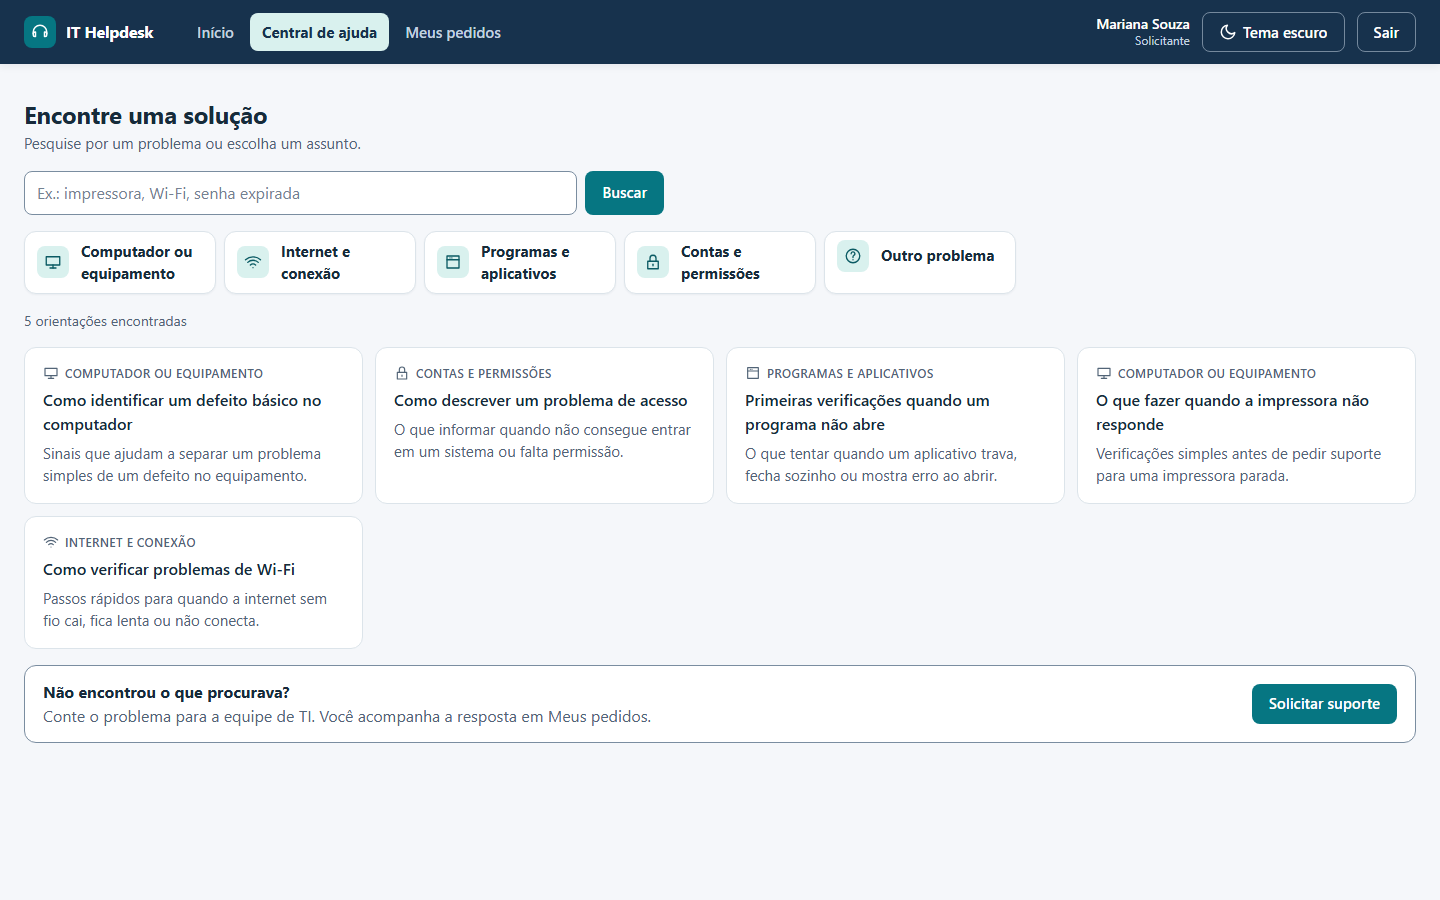
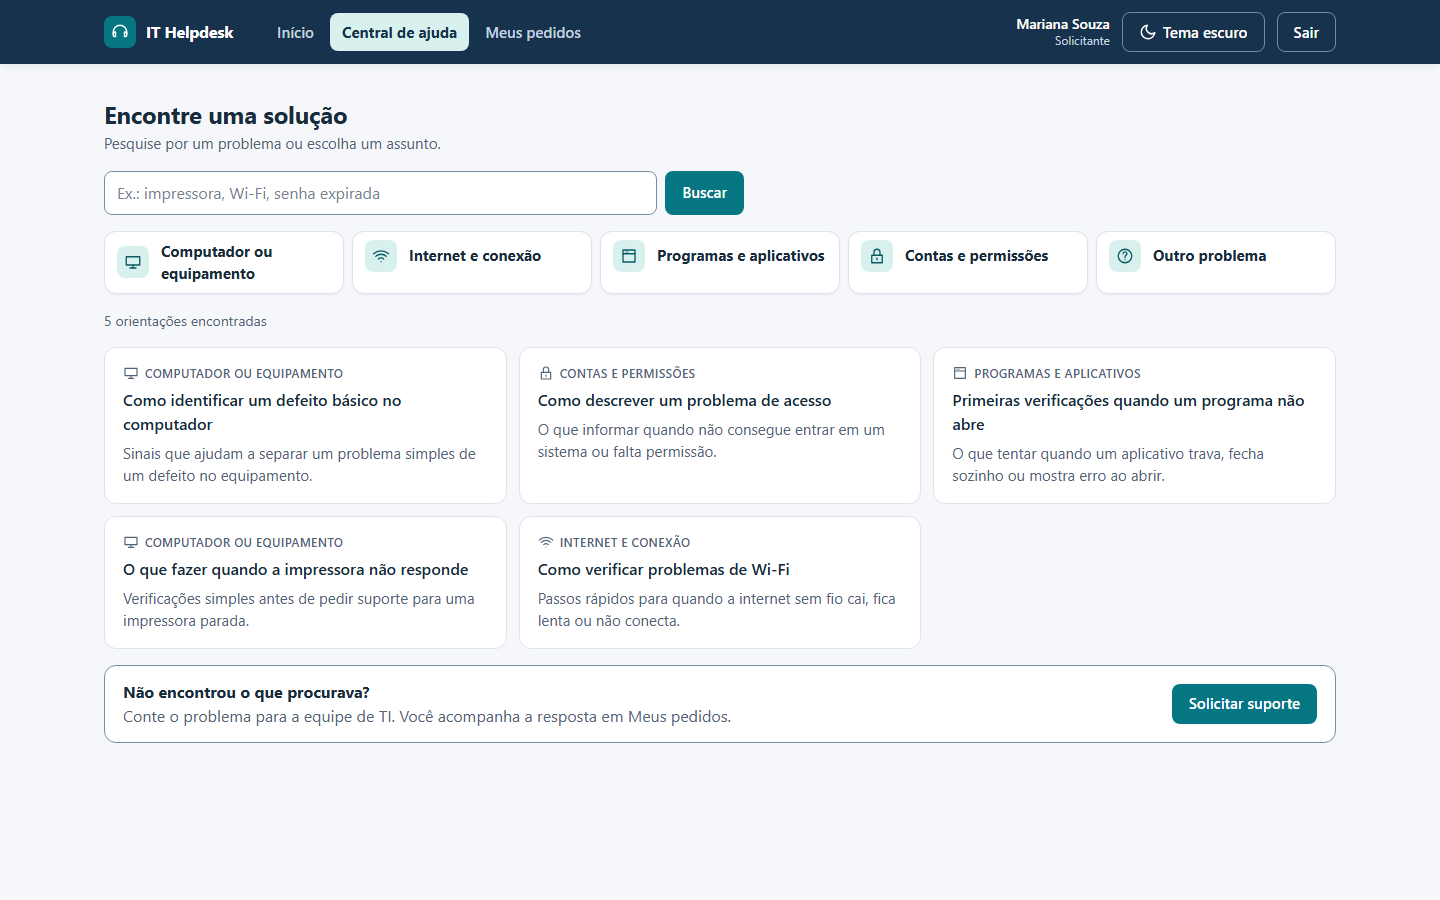
docs: document the layout containers and refresh the changed screens
Record the per-profile containers and the fixed-set grids among the
code decisions, describe the two-column request form, list the new
layout checks of the E2E and add the verification log. Only the 10
captures whose screens changed were regenerated (requester home, form,
help center, article, resolution confirmation, and the manager's full
page on tablet and phone); the other 21 are unchanged, and the capture
metadata keeps each entry's own date.

diff --git a/docs/05-demonstracao.md b/docs/05-demonstracao.md
@@ -140,11 +140,31 @@ No banco local avaliado, os cinco IDs são `6ac9715c1a2d1fec7dee10c3`, `6ac97180
 | Indicadores de estoque | `inventory-insights.test.ts` e `demo-inventory.test.ts`: só a gestão; abaixo do mínimo; unidades separadas de tipos; consumo operacional sem estornos; demonstração só quando escolhida; seed idempotente que recusa contas reais |
 | Troca de perfil | E2E: Solicitante → Sair → TI, TI → Sair → Gestor e Gestor → Sair → Solicitante caem na página inicial do próprio perfil; URL protegida volta após o login; recarregar mantém a página; destino que o perfil não abre cai na página inicial; sessão inválida de outra pessoa não decide o destino; nenhuma resposta 5xx em toda a execução |
 | Privacidade das respostas | `ticket-privacy.test.ts`: chaves exatas e ausência de dados restritos em todas as respostas do solicitante; a equipe mantém o contrato operacional |
-| Mobile | E2E verifica dashboard gerencial em desktop/390 px (inclusive com tabela de incidentes), Início do solicitante em 390 px, tema claro como padrão mesmo com o sistema em escuro, botão de tema (liga, sobrevive ao recarregamento, desliga), contraste de texto dos botões nos dois temas; não substitui auditoria completa de acessibilidade/responsividade |
+| Mobile e layout | E2E verifica dashboard gerencial em desktop/390 px (inclusive com tabela de incidentes), Início do solicitante em 390 px (busca com altura e ícone preservados) e em 1650 px (alinhado ao cabeçalho), formulário de suporte em duas colunas a 1650 px e em uma coluna, na ordem de leitura, a 768 px, as quatro ações da mesa de atendimento em 2 + 2 a 768 px, texto visível no botão **Solicitar suporte** com o mouse sobre ele, tema claro como padrão mesmo com o sistema em escuro, botão de tema (liga, sobrevive ao recarregamento, desliga), contraste de texto dos botões nos dois temas; não substitui auditoria completa de acessibilidade/responsividade |
 
 O E2E não automatiza toda a abertura e resolução pela UI. A integração cobre essas regras na API; o roteiro acima orienta a conferência visual manual.
 
 ## Registro da verificação documental
+
+Em **16/10/2026**, após a revisão de layout responsivo, as seguintes verificações foram aprovadas:
+- containers por perfil alinhados ao cabeçalho;
+- formulário de suporte em duas colunas;
+- grades de conjuntos fixos sem cartão isolado;
+- texto do botão principal visível com o mouse sobre ele;
+- busca da página Início com a altura preservada no celular;
+- **256 testes backend**, aprovados com `DEMO_MODE=true` e com `DEMO_MODE=false`;
+- **185 verificações E2E**, entre elas seis de geometria e estado;
+- typecheck, lint sem warnings, builds, `docs:check` e `git diff --check`.
+
+O E2E passou em 3 de 4 execuções. A que falhou parou ao recarregar o painel do gestor, depois que o sistema ocultou a página headless e o navegador cancelou as requisições à API: é o mesmo padrão registrado abaixo, e a causa não está comprovada. Uma varredura com o navegador nas resoluções 390 × 844, 768 × 1024, 1024 × 768, 1440 × 900, 1650 × 954 e 1920 × 1080 percorreu as páginas dos três perfis e não encontrou:
+- rolagem horizontal;
+- texto cortado;
+- campos estreitos;
+- conjuntos fixos de cartões com um cartão isolado na última linha.
+
+Das 31 capturas, foram refeitas apenas as 10 de telas que mudaram:
+- solicitante: as duas do formulário, as duas da página Início, o problema conhecido na página Início, a Central de ajuda, o artigo e a confirmação de resolução;
+- gestor: as duas da página completa no tablet e no celular, por causa da grade do estoque.
 
 Em **16/10/2026**, com o módulo de estoque e patrimônio: **256 testes backend**, aprovados com `DEMO_MODE=true` e com `DEMO_MODE=false`, e **179 verificações E2E**; typecheck, lint sem warnings, builds, `docs:check` (sete arquivos Markdown e 31 capturas) e `git diff --check` aprovados. Na última série, o E2E passou em 5 de 6 execuções seguidas; na que falhou, o sistema ocultou a janela do navegador headless 16 vezes (contra 3 ou 4 nas demais) e a página recarregada não iniciou a tempo, o mesmo efeito descrito em [solução de problemas](#solução-de-problemas). Duas instabilidades causadas pelo próprio teste foram corrigidas antes: verificações depois de recarregar que podiam ler a página antiga, e o Vite de teste recarregando ao descobrir dependências de uma página carregada sob demanda.
 

diff --git a/docs/03-fluxos-e-api.md b/docs/03-fluxos-e-api.md
@@ -8,7 +8,7 @@
 
 1. **Buscar uma solução.** A página **Início** pergunta **Como podemos ajudar?**: digite o problema na busca e clique em **Buscar orientações**, ou escolha um dos cinco cartões de assunto, que levam direto ao pedido guiado. A **Central de ajuda** mostra as orientações publicadas; abra uma e responda **Isso resolveu meu problema.** ou **Ainda preciso de ajuda.**
 2. **Ver se é um problema conhecido.** Em **Problemas conhecidos**, se o problema também está afetando você, clique em **Também estou com esse problema**. Nada mais é necessário: a TI vê que mais uma pessoa foi atingida. Se passar, clique em **Não estou mais com esse problema**.
-3. **Solicitar suporte.** Clique em **Solicitar suporte**, o único botão principal da página, (ou em **Ainda preciso de ajuda.**, que já traz o assunto e o artigo lido). Responda **Com o que você precisa de ajuda?**; aparecem os problemas conhecidos e as orientações daquele assunto, que não impedem o envio.
+3. **Solicitar suporte.** Clique em **Solicitar suporte**, o único botão principal da página, (ou em **Ainda preciso de ajuda.**, que já traz o assunto e o artigo lido). Responda **Com o que você precisa de ajuda?**; aparecem os problemas conhecidos e as orientações daquele assunto, que não impedem o envio. Em telas a partir de 960 px, eles ficam numa coluna ao lado do formulário, com **Como funciona o atendimento**; no celular e no tablet, aparecem antes dos campos, e a explicação vai para o fim da página.
 4. **Dizer onde é (opcional).** Em **Onde está o problema?**, o departamento e a sala começam pelo seu local de trabalho; troque se o problema for em outro lugar. Se você tiver equipamentos com patrimônio, pode indicar qual está com problema.
 5. **Responder às perguntas.** Em **Conte um pouco mais**, responda o que souber; todas são opcionais e podem ser limpas. Se trocar de assunto e voltar, as respostas continuam lá. Preencha **Assunto**, **O que aconteceu?** e **Prioridade sugerida** e clique em **Enviar solicitação**.
 6. **Acompanhar.** A página do pedido abre com a confirmação. Em Início, **Meus pedidos** resume quantos estão aguardando, em atendimento e resolvidos e lista os mais recentes. A situação aparece como **Aguardando atendimento**, **Em atendimento** ou **Resolvido**; enquanto ninguém iniciou o atendimento, **Editar chamado** corrige o texto. Todos os pedidos ficam em **Meus pedidos**.
@@ -211,9 +211,9 @@ A solicitante busca uma orientação, escolhe um assunto ou pede suporte; vê os
 
 Depois de **Também estou com esse problema**, o cartão confirma o acompanhamento e oferece **Não estou mais com esse problema**.
 
-![Formulário Solicitar suporte com o problema conhecido exibido antes dos campos](assets/screenshots/abertura-chamado-desktop.png)
+![Formulário Solicitar suporte: assunto e campos à esquerda, problema conhecido e Como funciona o atendimento à direita](assets/screenshots/abertura-chamado-desktop.png)
 
-O formulário mostra os problemas conhecidos antes dos campos, sem bloquear o envio. A captura é anterior ao envio.
+O formulário mostra os problemas conhecidos ao lado dos campos, sem bloquear o envio. A captura é anterior ao envio.
 
 ![Página Início da solicitante no celular](assets/screenshots/dashboard-solicitante-mobile.png)
 

diff --git a/docs/04-metricas-decisoes-e-limites.md b/docs/04-metricas-decisoes-e-limites.md
@@ -172,6 +172,7 @@ As justificativas abaixo explicam efeitos e tradeoffs da arquitetura existente, 
 - **Gráficos shadcn/ui adaptados com Recharts:** contêiner e tooltip usam tokens CSS existentes, sem introduzir Tailwind ou reconstruir o frontend. Gráfico gerencial é carregado sob demanda; barras ordenam categorias e pizza mantém a ordem semântica de prioridades.
 - **CSS próprio e Docker só no banco:** preserva a identidade visual e reduz dependências, com manutenção manual de componentes e processos separados.
 - **Paleta corporativa em tokens CSS:** fundo #F5F7FA, superfícies brancas, navegação azul-marinho #17324D, texto #172B3A, texto secundário #526477, bordas #DCE4EA e destaque suave #D9F1EE, definidos uma vez em `:root`, com variante escura equivalente em `:root[data-theme="dark"]`. O tema claro é o padrão, independentemente do sistema; o botão **Tema escuro** do cabeçalho (`aria-pressed`) liga o escuro e guarda a escolha no navegador, aplicada por um script em `index.html` antes da primeira pintura, sem piscar. O primário pedido, #087F8C, mede 4,42:1 como texto sobre o fundo, abaixo do AA; foi escurecido para #067682 (4,99:1 sobre o fundo, 5,36:1 com texto branco). Outros pares medidos: texto 13,56:1, texto secundário 5,67:1, links da navegação 8,51:1; no escuro, texto 14,73:1 e primário 8,03:1. Bordas de campos ficam acima de 3:1 nos dois temas; o E2E confere o contraste dos botões em cada execução. Situação nunca depende só de cor: selos têm texto e o status do incidente tem ponto e rótulo.
+- **Containers por perfil:** o cabeçalho e a página usam o mesmo container, definido em tokens: `--container-wide` (1480 px) para TI e gestão, que trabalham com filas, quadro e tabelas; `--container-portal` (1280 px) para o solicitante; `--container-reading` (760 px) para texto corrido, como os artigos. Assim, marca, menu e título começam na mesma linha em qualquer largura. O formulário de suporte usa duas colunas a partir de 960 px. Conjuntos fixos de cartões (os cinco assuntos, as quatro ações da mesa de atendimento, os cinco números do estoque na visão gerencial) têm o número de colunas definido por faixa de largura, para não sobrar um cartão sozinho numa linha; listas de tamanho variável continuam fluidas.
 - **Incidentes em coleções próprias:** a revisão do chamado não é usada para participações, então cliques de muitas pessoas não geram 409 no atendimento. O custo é não ter transação entre chamado e incidente, compensado pela reconciliação na leitura.
 - **Respostas do solicitante no histórico do chamado:** confirmar, avaliar e contestar são eventos do próprio chamado, escritos pelo mesmo `saveChanges` das outras ações. Herdam revisão, ciclo, autor e data do servidor, sem uma coleção paralela com regras próprias. Contestar é uma rota específica, não uma permissão geral de status.
 - **Respostas do formulário guiado em campo próprio:** `intake` guarda as respostas com o texto da pergunta, sem misturar com a descrição. Permite exibir para a TI, evoluir para filtros no futuro e manter chamados antigos válidos sem migração.

diff --git a/README.md b/README.md
@@ -263,7 +263,7 @@ npm run build
 ```
 
 - **Integração (`npm test`):** autenticação, isolamento, permissões dos três perfis, validação, transições, histórico, concorrência, dashboards, visão gerencial, rate limit, incidentes compartilhados, privacidade das respostas, base de conhecimento, classificação orientada e confirmação de resolução, departamentos e salas, catálogo, saldo, concorrência, idempotência, estornos, patrimônio, entregas ligadas a chamados e indicadores de estoque. Usa bancos `it-helpdesk-test*`, apagados ao final; o banco de desenvolvimento não é tocado.
-- **E2E (`npm run test:e2e`):** sobe API e Vite em portas livres com banco e usuários temporários, abre o Edge/Chrome headless e percorre login/logout, páginas iniciais dos três perfis, isolamento, operações do gestor, conflito por revisão, filtros, estados de carregamento e erro, layout em 390 px e os fluxos completos de incidente compartilhado, artigo de ajuda, pedido guiado, confirmação e contestação de resolução, quadro (incluindo teclado, justificativa, conflito 409 e filtros recolhidos no celular) e estoque (o teclado do Financeiro de ponta a ponta, com o saldo conferido na API, cadastro de material, entrada, estoque insuficiente, transferência de patrimônio, 390 px, permissões e consumo na visão gerencial). Se o navegador não for encontrado, defina `E2E_BROWSER_PATH`. Diagnósticos de falha ficam em `backend/e2e-results/`, ignorado pelo Git.
+- **E2E (`npm run test:e2e`):** sobe API e Vite em portas livres com banco e usuários temporários, abre o Edge/Chrome headless e percorre login/logout, páginas iniciais dos três perfis, isolamento, operações do gestor, conflito por revisão, filtros, estados de carregamento e erro, layout em 390, 768 e 1650 px (container alinhado ao cabeçalho, formulário de suporte em duas colunas, grades sem cartão isolado e texto do botão principal visível com o mouse sobre ele) e os fluxos completos de incidente compartilhado, artigo de ajuda, pedido guiado, confirmação e contestação de resolução, quadro (incluindo teclado, justificativa, conflito 409 e filtros recolhidos no celular) e estoque (o teclado do Financeiro de ponta a ponta, com o saldo conferido na API, cadastro de material, entrada, estoque insuficiente, transferência de patrimônio, 390 px, permissões e consumo na visão gerencial). Se o navegador não for encontrado, defina `E2E_BROWSER_PATH`. Diagnósticos de falha ficam em `backend/e2e-results/`, ignorado pelo Git.
 - **Documentação (`npm run docs:check`):** links, âncoras, imagens, viewport e tema de cada captura, scripts npm citados, variáveis dos exemplos e credenciais demonstrativas.
 
 O que cada teste cobre: [o que os testes verificam](docs/05-demonstracao.md#o-que-os-testes-verificam).
